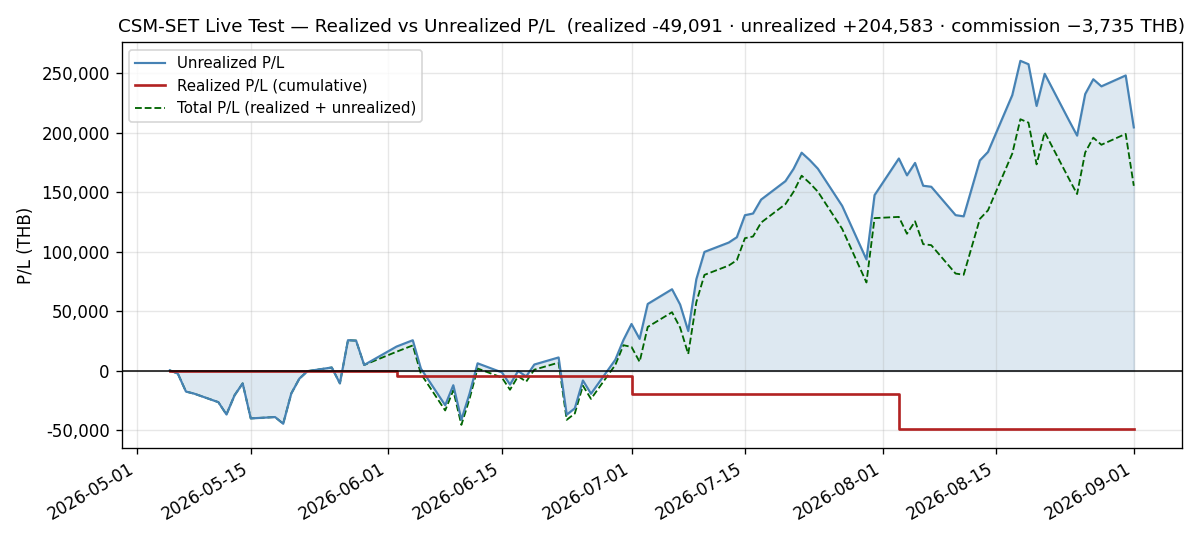
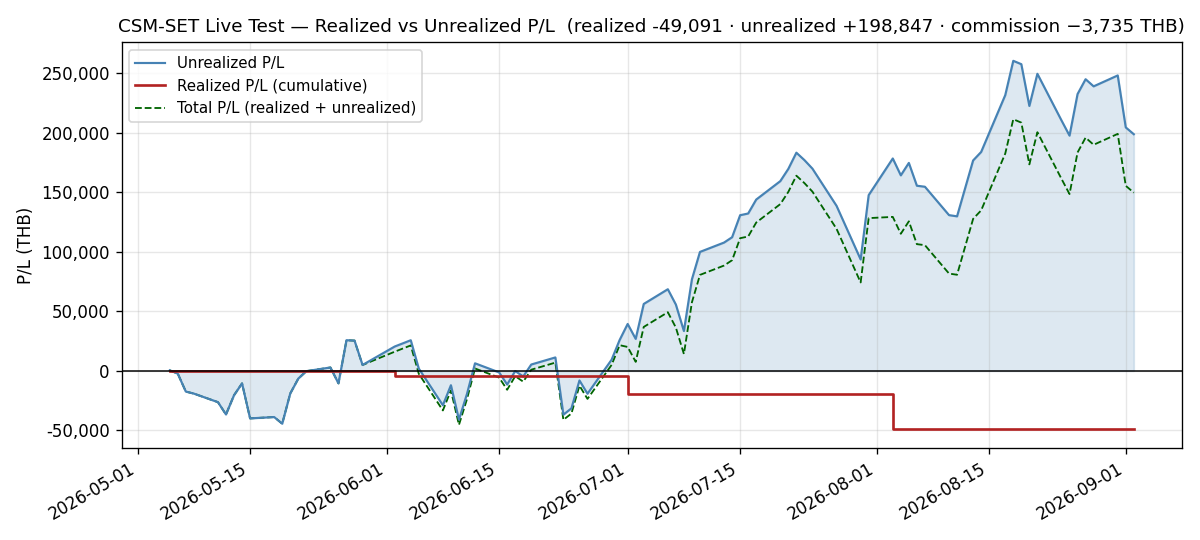
docs(live-test): add daily log for 2026-09-02
NAV closes at 1,268,145.70 THB, down -5,736.00 (-0.4503%) on breadth of
2 up / 7 down / 1 flat, cumulative +13.23%. IRPC (+3.70%) set a fresh
live-test high at 2.80 for a second session and carried the tape against
seven mild decliners, none beyond 2.5%. The book outperformed the SET by
+0.4054pp, reversing Tuesday's -2.9143pp.

The 2026-09-01 dual-bar defect did not recur: the panel is back to 947
rows, one per trading day, and skill step 10 passes on its own for the
first time since 08-31. The guards shipped yesterday logged nothing,
which is the correct outcome but means they were never exercised -
deployed, not re-proven.

The day's data event is a restatement, and the EMA100 positive control
found it unprompted. FORTH's 2026-09-01 close was rewritten 15.50 ->
15.40, moving that day's equity_curve row by exactly -530.00. The control
reproduced four of five prior readings and missed only FORTH - it
localised the change to a symbol and a date without being asked.
daily_performance is append-only and still reads 1,273,881.70 for
2026-09-01, so the 09-01 log remains correct on its own basis; the two
tables disagreeing there is the documented design, not damage.

daily_return is wrong for two reasons today and one now has an address:
the denominator bug is in quant-api-gateway (PR #38, open and NOT
deployed), and the numerator used the restated prior bar.

Claude-Session: https://claude.ai/code/session_01VKyqnmKmz6Hh9ErHRFMhFr

diff --git a/docs/live-test/daily/2026-09-02.md b/docs/live-test/daily/2026-09-02.md
@@ -1,0 +1,177 @@
+# Daily Log — 2026-09-02 (Wednesday)
+
+**As of:** 2026-09-02, Asia/Bangkok
+**Phase:** C — Extended Observation
+**Day:** 83 / 80 trading days remaining in 2026
+**Status:** **NAV closes at 1,268,145.70 THB, down −5,736.00 (−0.4503%)** with no trades. Breadth is **2 up, 7 down, 1 flat**. 🟢 **THE DUAL-BAR DEFECT DID NOT RECUR AND THE FIX IS DEPLOYED** — the panel is back to **947 rows, every one stamped 09:55, 211/211 non-null, zero days carrying more than one bar** — and **skill step 10 passes on its own for the first time since 2026-08-31**: `daily_performance` reads 1,268,145.70, equal to this log's Total NAV to the satang. ⚠ **But the guards logged NOTHING today, so they were never exercised — deployed is not re-proven** (Risk Note 1). 🔑 **The day's real data event is a RESTATEMENT, and the EMA100 control found it unprompted:** FORTH's **2026-09-01** close was rewritten **15.50 → 15.40**, moving the `equity_curve` row for that day by exactly **−530.00**; the control reproduced four of five prior readings and missed only FORTH (Risk Note 5). 🟢 **`daily_performance` still reads 1,273,881.70 for 2026-09-01 — the 09-01 log remains correct on its own basis** (Risk Note 13). 🟢 **The book outperformed the index by +0.4054pp**, reversing yesterday's −2.9143pp, which was the worst of the holding period. 🔴 **MGC's EMA100 cushion compressed again to +3.19%** and the rule that would evict it does not run until 2026-09-30. ⚠ **ENERG's headroom is a fresh holding-period tightest at 22,883.00 THB — because NAV fell, not because the sleeve grew.**
+
+---
+
+## Execution Summary
+
+**No trades today.** The September rebalance was a 0-out / 0-in rotation (`monthly/2026-08.md`), so `configs/live_portfolio.yaml` is unchanged and remains valid — the second session of the first holding period in the live test to survive a rebalance boundary untouched. Realized P/L for the session is **0.00 THB** and no commission was paid. The next rebalance evaluation is **2026-09-30**.
+
+⚠ **A held name's price history changed even though nothing was traded.** FORTH's **2026-09-01** bar was restated by the vendor from **15.50 to 15.40** (factor 0.9935483871). No position, share count or cash figure moved; what moved is the banked past. **A session with no trades is not a session with no changes**, and the distinction matters because the two look identical in the Execution Summary and nowhere else (Risk Note 13).
+
+---
+
+## Portfolio Snapshot
+
+`Avg Cost` is the commission-inclusive per-share basis carried from `configs/live_portfolio.yaml` (4-decimal precision); `Cost Basis = shares × Avg Cost`, and `U.PL % = MV / Cost Basis − 1`. Per-symbol values reproduce the broker statement exactly.
+
+| # | Symbol | Shares | Avg Cost | Last Price | Market Value (THB) | Cost Basis (THB) | U.PL % |
+|---|--------|-------:|---------:|-----------:|--------------------:|-----------------:|-------:|
+| 1 | IRPC | 56,600 | 2.3037 | 2.80 | 158,480.00 | 130,389.42 | +21.54% |
+| 2 | HANA | 3,000 | 35.8070 | 45.00 | 135,000.00 | 107,421.00 | +25.67% |
+| 3 | GUNKUL | 30,800 | 2.9246 | 4.86 | 149,688.00 | 90,077.68 | +66.18% |
+| 4 | INSET | 42,000 | 3.0848 | 4.48 | 188,160.00 | 129,561.60 | +45.23% |
+| 5 | KCE | 2,600 | 39.0655 | 58.50 | 152,100.00 | 101,570.30 | +49.75% |
+| 6 | EASTW | 24,000 | 4.2672 | 4.70 | 112,800.00 | 102,412.80 | +10.14% |
+| 7 | EPG | 17,300 | 5.9099 | 6.00 | 103,800.00 | 102,241.27 | +1.52% |
+| 8 | FORTH | 5,300 | 16.1270 | 15.30 | 81,090.00 | 85,473.10 | −5.13% |
+| 9 | SMT | 20,400 | 5.8097 | 5.75 | 117,300.00 | 118,517.88 | −1.03% |
+| 10 | MGC | 9,200 | 10.7180 | 7.25 | 66,700.00 | 98,605.60 | −32.36% |
+
+### Portfolio summary
+
+| Metric | Value |
+|--------|-------|
+| Total Cost Basis | 1,066,270.65 THB |
+| Total Market Value | 1,265,118.00 THB |
+| Unrealized P/L | +198,847.35 THB (+18.65%) |
+| Realized P/L (today) | **0.00 THB** |
+| Realized P/L (cumulative, since inception) | **−49,091.38 THB** |
+| Commission paid (cumulative) | **−3,735.16 THB** |
+
+### Account summary
+
+| Metric | Value |
+|--------|-------|
+| Remaining Cash | 3,027.70 THB |
+| Total NAV | 1,268,145.70 THB |
+| Total Return on NAV | +13.23% |
+
+> 🟢 **The verification gate that was waived yesterday RAN TODAY AND PASSED.** Skill step 10 requires `Total NAV` to equal `db_gateway.daily_performance.total_value`; both read **1,268,145.70**. ⚠ **This is worth one sentence of care rather than a victory lap:** the gate passing today does not retroactively validate anything about 2026-09-01, and it is only informative because yesterday established what its failure looks like. **A check that passes is evidence exactly in proportion to its ability to have failed** — and yesterday it demonstrably could.
+>
+> **Cost-basis note:** Total Cost Basis is unchanged at **1,066,270.65 THB** and the reconciliation delta against Σ per-symbol (`shares × avg_cost`, 4-dp) is **0.00 THB** for a twenty-first consecutive session.
+>
+> **Above/below cost: 7 up / 3 down**, composition unchanged from Tuesday — **FORTH, SMT and MGC**. **FORTH deepened to −5.13%** and is now below cost on both the reported and the total-return basis (the 795.00 of unrecorded dividend covers less than a fifth of the 4,383.10 shortfall), so the distinction this series drew for three sessions stays closed. **SMT deepened to −1.03%** and **MGC to −32.36%, its worst since entry for a third consecutive session.** Unrealized fell from **+19.19% to +18.65%**, a **−0.54pp** step. **Dispersion narrowed to 98.54pp** (GUNKUL +66.18% to MGC −32.36%) from 101.70pp — **and for the first time in three sessions it narrowed the right way round**: GUNKUL shed 4.10pp while MGC lost only 0.94pp, so the compression came from the leader falling toward a laggard that was comparatively stable, rather than both ends collapsing.
+>
+> **Total P/L check:** realized + unrealized = −49,091.38 + 198,847.35 = **+149,755.97 THB**, down from +155,491.97 by exactly the −5,736.00 session move. It sits **14,253.99 below** the pre-rotation best of +164,009.96 (2026-07-22) and **61,680.00 below** the live-test maximum of **+211,435.97 set 2026-08-18** — a gap that is exactly the NAV drawdown from peak, as it must be while realized P/L is constant.
+
+---
+
+## Day-over-Day Change (vs Tuesday September 1)
+
+Share counts are unchanged from 2026-09-01, so this table fully explains the NAV move: Σ (shares × price change) = **−5,736.00 THB**, which equals the change in Total Market Value to the satang.
+
+🔑 **The `Sep 1 Close` column is the AS-PUBLISHED basis, and ONE cell of it no longer matches the panel.** FORTH's 2026-09-01 close now reads **15.40** in `prices_latest.parquet`, not the **15.50** the 2026-09-01 log published. **The published value is kept here** — that is the standing convention and it is what keeps this table reconcilable against the prior log — but the consequence is stated rather than buried: **on the restated basis the session is −5,206.00 (−0.4088%), not −5,736.00 (−0.4503%).** Both are correct against their own history. **The DB's `daily_pnl` used the restated one**, which is why its `daily_return` cannot be reconciled against this table without knowing that (Risk Note 6).
+
+| Symbol | Sep 1 Close | Sep 2 Close | Change | Change % | MV Contribution (THB) |
+|--------|------------:|------------:|-------:|---------:|----------------------:|
+| IRPC | 2.70 | 2.80 | +0.10 | +3.70% | +5,660.00 |
+| HANA | 45.00 | 45.00 | 0.00 | 0.00% | 0.00 |
+| GUNKUL | 4.98 | 4.86 | -0.12 | -2.41% | -3,696.00 |
+| INSET | 4.54 | 4.48 | -0.06 | -1.32% | -2,520.00 |
+| KCE | 57.75 | 58.50 | +0.75 | +1.30% | +1,950.00 |
+| EASTW | 4.80 | 4.70 | -0.10 | -2.08% | -2,400.00 |
+| EPG | 6.10 | 6.00 | -0.10 | -1.64% | -1,730.00 |
+| FORTH | 15.50 | 15.30 | -0.20 | -1.29% | -1,060.00 |
+| SMT | 5.80 | 5.75 | -0.05 | -0.86% | -1,020.00 |
+| MGC | 7.35 | 7.25 | -0.10 | -1.36% | -920.00 |
+| **Total** | | | | **-0.45%** | **-5,736.00** |
+
+**Breadth: 2 up, 7 down, 1 flat.**
+
+> The **−0.45%** on the Total row is the **market-value** change (−5,736.00 / 1,270,854.00 = −0.4513%). The **NAV** change is **−0.4503%** (−5,736.00 / 1,273,881.70) — the two differ only because cash sits in the NAV denominator and not the market-value one. Both are stated because different sections of this log use each.
+
+**A shallow, broad decline with one genuine riser.** **IRPC (+3.70%, +5,660) was the session** — it contributed more than the other nine combined lost individually, set a fresh live-test high, and is the only name to have risen on both of the last two sessions. **KCE added +1,950** on a +1.30% move, recovering a third of Tuesday's fall. Against them, **seven names fell and none fell hard**: the largest single decliner was GUNKUL at −2.41%, and no name moved more than 2.5% in either direction except IRPC. **HANA closed exactly unchanged at 45.00**, the second flat print in two sessions.
+
+**This is the mildest session of the holding period in dispersion terms**, and that is the observation worth keeping: yesterday nine names fell with three of them beyond 4%, today seven fell with none beyond 2.5%. **The book is drifting rather than being repriced.** The rotation pattern is again neither sleeve-versus-sleeve nor common-factor — IRPC (ENERG) and KCE (ETRON) rose from different sleeves while their own sleeve-mates fell, which is the third consecutive session of idiosyncratic dispersion rather than rotation.
+
+---
+
+## Market Context
+
+| Indicator | Value | Source |
+|-----------|-------|--------|
+| SET Index | 1,575.07 | tvkit (TradingView) |
+| SET Open / High / Low | 1,587.58 / 1,589.88 / 1,572.44 | tvkit |
+| SET 200-day SMA | 1,452.3893 | tvkit (TradingView) |
+| Regime Estimate | BULL | SET +8.45% above SMA200 |
+
+---
+
+## Regime State
+
+- **Detected regime:** BULL — SET (1,575.07) is above SMA200 (1,452.3893) by +8.45%
+- **SMA200 position:** 1,452.3893 — SET closing at 1,575.07
+- **3-month return:** +0.26% (window-sensitive — see Notes)
+- **No regime-driven action.** The regime filter is evaluated at the month-end rebalance, not intra-month. The next evaluation is **2026-09-30**.
+
+**The five-session SET path reads 1,600.70 → 1,588.22 → 1,595.16 → 1,588.68 → 1,575.07**, and the index fell **−13.61 (−0.86%)**, its largest single-session decline since 2026-08-24. 🔴 **The 1,582 level broke.** It had been tested and held on two consecutive sessions (2026-08-28 low 1,582.38, 2026-08-31 low 1,582.12), and the 2026-08-31 log recorded that holding it twice was "the first thing the index has done in two weeks that would matter if it continued." **It did not continue.** Today opened at 1,587.58, never traded above 1,589.88, and fell through to a **1,572.44 low — the lowest print since 2026-08-11** — closing 2.63 above it. **The shape is a full-session decline with no rally attempt**, unlike Friday's gap-and-fade or Monday's hold-and-rally.
+
+🔴 **The cushion contracted −1.03pp, +9.48% → +8.45% — the largest single-session compression of the holding period.** The SMA200 rose a further +1.33 points to 1,452.3893, so the index and its mean moved apart from both ends. At +8.45% the index would need to shed roughly **123 points** to reach the SMA200, from 138 yesterday and 146 on Monday — **the distance has closed by 16% in two sessions.** ⚠ **This is still nowhere near a BULL→NEUTRAL reassessment**, and saying so plainly matters more as the number falls: the filter runs at month end, a −0.86% day is unremarkable, and six weeks of compression is a trend in a slow-moving average, not a regime signal. **What has changed is the rate, not the verdict.**
+
+🟢 **Against the index the book outperformed by +0.4054pp — a reversal of the worst relative session of the period.** Book market value **−0.4513%** against SET **−0.8567%**, and the post-rebalance daily margin sequence now reads **+1.43 / −0.84 / +1.30 / −1.85 / +0.09 / −2.72 / +0.64 / +3.82 / +0.90 / +2.74 / +2.52 / +0.52 / −2.67 / +1.86 / −2.19 / −0.69 / +2.39 / +1.04 / +0.32 / +0.26 / −2.91 / +0.41**. **Cumulatively the book is +2.21% since the 2026-08-03 rebalance-day close against the index's −2.89%, a +5.10pp margin** — recovered from +4.72pp yesterday, though still well below the +7.25pp high set on 2026-08-31. **A concentrated book falling less than a broad index on a down day is the same higher-variance property that made it fall three times as fast yesterday**; two sessions in opposite directions is not evidence about the edge.
+
+---
+
+## Sector Concentration
+
+Groupings are the SET-official classification re-based at the 2026-08-03 rebalance and are unchanged today; percentages are directly comparable to the prior session for every sleeve.
+
+| Sector | Market Value (THB) | % of NAV | Limit | Status |
+|--------|--------------------:|---------:|-------|--------|
+| Energy & Utilities (ENERG) | 420,968 | 33.1956% | 35% | **OK — watch. Tightest headroom of the holding period** |
+| Electronic Components (ETRON) | 404,400 | 31.8891% | 35% | OK — watch |
+| ICT | 269,250 | 21.2318% | 35% | OK |
+| Construction Materials (CONMAT) | 103,800 | 8.1852% | 35% | OK |
+| Automotive (AUTO) | 66,700 | 5.2596% | 35% | OK — **holding-period low (9th consecutive)** |
+
+🔴 **ENERG's headroom fell to 22,883.00 THB, a second consecutive holding-period tightest — and for the second consecutive session it tightened BECAUSE THE BOOK FELL.** ENERG's own value dropped 436 THB, essentially flat; the 35% ceiling dropped 2,007.90 because it is a percentage of a NAV that fell 5,736.00. ⚠ **Yesterday this was recorded as a one-off worth stating; today it happens again, so it is a pattern and should be named as one: a falling book tightens every percentage cap it has, and does so fastest in the sleeve that is holding up best.** **The cap is still not the live issue** — 22,883.00 is 5.4% of ENERG's value — **but the mechanism is now established, and it is the opposite of the intuition that a cap loosens when a book shrinks.**
+
+**Both leading sleeves gained weight while both lost value.** **ENERG rose +0.12pp to 33.1956%** on **−436** (IRPC +5,660 against GUNKUL −3,696 and EASTW −2,400) and **ETRON rose +0.22pp to 31.8891%** on **−1,020** (KCE +1,950 against HANA flat and SMT −1,020). **The sleeve gap narrowed to 1.3065pp** from 1.4078, and **ENERG has now led on all twenty-one sessions since the rotation.** The gap sequence reads **1.1949 → 0.5029 → 1.0879 → 0.2625 → 1.4078 → 1.3065pp** — after four reversals it moved in the same direction twice, which is the least eventful thing it has done all period.
+
+🔴 **AUTO fell to 5.2596%, a ninth consecutive holding-period low, and is now 0.2596pp above the 5% floor.** Today's step was **−0.0486pp**, the smallest of the run, because MGC (−1.36%) fell only a little harder than the book (−0.45%). **The 2026-09-01 revision to "eight to ten sessions" stands and today did not accelerate it** — the 2026-08-31 estimate of "two to three sessions" remains superseded, and it is worth restating that the correction came from the book falling rather than MGC recovering. **ICT fell −0.19pp to 21.2318%** on −4,600 and **CONMAT fell −0.10pp to 8.1852%** on −1,730.
+
+---
+
+## Risk Notes
+
+1. 🟢 **RESOLVED (holding, unexercised) — the dual-bar defect did not recur, and the fix is deployed but was not tested today.** The panel is **947 rows, every one stamped 09:55 BKK, 211 of 211 symbols non-null on every recent session, and ZERO days carrying more than one bar.** The two guards shipped yesterday (`collapse_to_daily_bars`, `drop_unpriced_days`) logged **no warnings at all**. ⚠ **That silence is the correct outcome and it is NOT evidence the fix works.** The vendor stopped emitting the second bar, so the collapse had nothing to collapse; a guard that never fires has demonstrated nothing on the day it never fires. **What IS established today is separate and weaker: the fix is present in the running container** (verified at deploy time), **and it did not break the ordinary path** — 947 clean rows priced correctly end to end. **The first real out-of-sample test of the guard will be the next session the vendor splits a day**, and there is no way to schedule that. Full report: `events/2026-09-01-dual-bar-nav-corruption.md`.
+2. 🟢 **INSET is inside the 15% position bound for a SECOND consecutive session, and it got there the same wrong way again.** INSET closed at **14.8374% of NAV**, **2,061.86 THB under** the 190,221.86 ceiling, from 402.26 under on Tuesday. ⚠ **The margin widened because INSET fell −1.32% on a day the book fell −0.45%** — the position underperformed and the bound improved. **This is now the fourth consecutive session in which the bound moved in the favourable direction only because the thesis weakened**, and the second in which it is fully inside. The holding-period path reads 15.46 → 15.40 → 15.70 → 15.44 → 15.68 → 15.76 → 15.30 → 14.95 → 15.24 → 15.79 → 15.83 → 15.80 → 16.24 → 15.82 → 15.71 → 15.61 → 15.91 → 15.54 → 15.24 → 14.97 → **14.84%** — **outside on nineteen of twenty-two sessions.** **A constraint that comes back into range by the position losing value has not been satisfied; it has been outlasted.** The July plan's request remains **open** and this is the fourteenth consecutive log to record it.
+3. 🔴 **Both 2026-08-03 entrants are below cost for the first time since entry, and the combined figure set a fresh worst.** Combined entrant unrealized fell to **−33,123.53 THB** (SMT **−1,217.88**, MGC −31,905.60) from −31,183.53, a **−1,940.00** deterioration and the **third consecutive fresh worst**. The path reads −30,043.48 → −30,863.48 → −21,323.48 → −19,183.48 → −22,043.48 → −22,303.48 → −31,183.53 → **−33,123.53** against a day-one figure of −13,223.48. ⚠ **SMT has now given up its entire post-entry gain**: it peaked at +5.00% on 2026-08-31 and closed at **−1.03%** today, a 6.03pp round trip in two sessions. **The divergence narrowed to 31.33pp** (from 31.25pp — effectively flat) **only because both names fell together.** **The pair bought the same morning by the same rule at the same notional intent are now both losing positions**, which is a cleaner statement of the fix-notional-not-shares problem than the divergence figure ever was. Carried to the 2026-09-30 evaluation.
+4. 🔴 **MGC's EMA100 cushion compressed to +3.19% and it remains structurally uncatchable until month end.** **Validated EMA100 readings for today** (method positive-controlled first — see Risk Note 5): **MGC is closest at +3.19%** above its EMA100 of 7.0260, then **EASTW (+7.48%)**, **FORTH (+9.32%)** and **EPG (+13.87%)**; the **widest is SMT at +49.42%**. **All ten held names remain above their EMA100**, so `ema100_fast_exit` does not fire. ⚠ **MGC's reading has now fallen +17.79% → +15.98% → +12.83% → +9.06% → +4.68% → +3.19% across six sessions.** Today's step (−1.49pp) is the smallest of the run, so the compression decelerated — **but the structural point is unchanged and is the one that matters: the rule is evaluated ONLY at the month-end rebalance, the September evaluation already retained MGC, and the next is 2026-09-30.** **MGC can cross below its EMA100 tomorrow and be carried for four more weeks.** **Nine of ten readings compressed; only KCE and IRPC expanded.** There is **no intra-month stop-loss** in `configs/live-settings.yaml`.
+5. 🔑 **THE EMA100 POSITIVE CONTROL DETECTED A RESTATEMENT IT WAS NOT LOOKING FOR — 4 of 5 reproduced, FORTH did not.** The standing practice is to reproduce the prior log's published EMA100 readings from the current panel before quoting today's. Today it returned **EASTW +9.94%, EPG +16.09%, SMT +52.24% and MGC +4.68% exactly** — and **FORTH at +10.24% against the +10.94% the 2026-09-01 log published.** ⚠ **A single mismatch in a five-name control is either a method failure or a data change, and the two are distinguishable**: a method failure moves all five. **It moved one, and that one is the name whose 2026-09-01 bar was restated 15.50 → 15.40.** ⇒ **The control did not merely pass or fail; it localised the change to a symbol and a date without being asked.** This is the strongest result this check has produced, and it is worth recording because the check was originally added to guard against the *method* drifting — **it has now proven more useful for what it catches incidentally.** Price verification against the prior log otherwise returned **9 of 10 matching to the satang**, FORTH being the tenth.
+6. ⚠ **DATA — `daily_return` is wrong for TWO independent reasons today, and one of them now has an address.** The DB reads **−0.004105206523193668**, which reproduces exactly as **`−5,206.00 ÷ 1,268,145.70`**. **Both terms carry a defect.** **(a) The denominator** is today's NAV where a return requires the prior one — 🔑 **and this is no longer an unlocated bug: it is in `quant-api-gateway`, not in csm-set.** The strategy engine computes the correct value and its payload never carries `daily_return` at all, only `daily_pnl`, so the gateway forms the figure on ingest. **`quant-api-gateway` PR #38 fixes it and is OPEN AND NOT DEPLOYED**, so this column stays wrong until it merges ([[TK-0489]]). **(b) The numerator** is **−5,206.00**, computed against FORTH's **restated** 2026-09-01 bar, where the as-published session change is **−5,736.00**. **The correct day-over-day NAV change on the published basis is −0.4503%; on the restated basis it is −0.4088%; the stored figure is neither.** Do not quote it.
+7. 🟢 **DATA — `cumulative_return`'s anchor HELD THROUGH A RESTATEMENT, which is a first.** It reads **+0.02203318136094201**, reproducing as `1,268,145.70 ÷ 1,240,806.7792389998 − 1` against a true Total Return on NAV of **+13.23%**. **The 2026-08-03 anchor row still reads 1,240,806.7792389998, unchanged.** ⚠ **Every prior test of the claim "the anchor moves if and only if a held name is restated" was run on sessions where the restated bar was inside the anchor's own history.** Today FORTH was restated on **2026-09-01**, which is *after* the anchor date, and **the anchor correctly did not move** — the first observation separating "a restatement occurred" from "a restatement touched the anchor row." The `entry_date` re-anchoring defect is unchanged and is why this field reads +2.20% against a true +13.23%. Quote this log's **+13.23%**, computed against the rebased `starting_nav` of 1,120,000. Do not chart the DB column.
+8. 🟢 **DATA — `combined_drawdown` is bit-identical for a FOURTH consecutive session.** It reads **−0.04448286083054431**, the same stored double as 2026-08-28, 08-31 and 09-01. **This is correct and the reasoning is worth stating because it is not obvious:** the field is a running minimum, today's true drawdown is **−4.64%**, and the window's existing trough is deeper — so a book that fell must still leave the field untouched. **The mechanism has now accounted for a move, three non-moves, a move in the counter-intuitive direction, and one poisoned reading that was repaired.** The two real defects are unchanged: **(a)** `entry_date` truncation, so it cannot express anything before 2026-08-03 and the full `equity_curve` maximum drawdown remains **−7.1073% at 2026-07-30**; **(b)** restated inputs.
+9. 🟢 **RESOLVED (holding) — the holiday calendar resolved cleanly for a sixth consecutive session.** The 18:00 refresh logged `SET holiday calendar for 2026-09-02 resolved from the banked cache (20 closures, captured 2026-09-01T15:40:44Z)` and `committed 2026 fallback table matches the live calendar (20 closures)` — **an eighth independent validation of the committed fallback.** The opportunistic poller (`452ba69`) has now run for six consecutive sessions without the refresh contacting the endpoint on its critical path. The remaining follow-up is unchanged: **capture the 2027 table from 2027-01-01.**
+10. ⚠ **The refresh was clean but took 144.965 s — OUTSIDE the established 119.60–139.20 s band.** APScheduler ran the 18:00 BKK job (next run **2026-09-03 18:00 +07**); held symbols cleared first pass (`requested=10 recovered=10 still_failing=0`) as did the universe (`attempt 1/3: requested=201 recovered=201 still_failing=0`), giving **`failures=0`, `symbol_count=211`, `retry_attempts_used=0`, `index_fetched=true`** — a **twenty-second consecutive fully clean run** by every metric the refresh reports. **The duration is 4.1% above the band's upper bound.** **Recorded as a single observation and the band is NOT re-fitted**, which is the same discipline that let 2026-08-28's 242.198 s outlier be resolved in one session rather than absorbed. Two of the last four sessions have now exceeded the band; **if a third does, the band needs re-deriving rather than defending.** ⚠ **Container uptime reset — and it was deliberate.** `csm-set-csm-1` has been up since **2026-09-01 14:09:59 UTC** with `RestartCount=0`, replacing a run that began 2026-08-25. **The recreate was the dual-bar fix's deployment**, not an incident; prior logs track uptime as a stability signal, so it is attributed here rather than left to read as an unexplained bounce. Still **private mode** (`CSM_PUBLIC_MODE=false`).
+11. **CLOSED (same session) — `pnl.csv` was brought current in the same unit of work as this log.** The series ended at **2026-09-01** (81 rows); the row `2026-09-02,-49091.38,198847.35,149755.97,3735.16` was appended, continuing the same-session practice for a **fourteenth consecutive session**. The CSV now runs **82 rows, 2026-05-05 → 2026-09-02, matching `equity_curve`'s 82**, with the `realized_cum + unrealized = total_pl` identity holding on every row, no duplicate dates, no 2026-08-12 row, `commission_cum` stepping only on the six known fill dates, and the residual at **1,610.27**. **`pnl_realized_unrealized.png` was regenerated**, so both artifacts end together at **82 points**; the four PNGs were checksummed before and after and the three NAV charts are byte-identical. ⚠ **The CSV is built from THIS log's figures, not from `equity_curve`** — which is why its 2026-09-01 row still carries the as-published **+204,583.35** while `equity_curve` now carries the restated basis. **That divergence is by design and is the second one this series has recorded; it is not drift.**
+12. **Circuit-breaker buffer 16.10% of NAV, −0.38pp on the session.** The 5% breaker trips at **1,064,000 THB** (1,120,000 × 0.95). NAV sits **+204,145.70 THB above it**, down from +209,881.70. **Today's NAV is 4.64% off peak**: raw, 1,268,145.70 against the 2026-08-18 peak of **1,329,825.70** is **−61,680.00, or −4.6382%**; ex-injection, 1,248,145.70 against 1,309,825.70 is **−4.7091%**. **Both lines agree.** **This is the deepest drawdown since 2026-08-25 and a second consecutive step down** (−0.92% → −4.21% → −4.64%). **Raw NAV is now 5,745.35 above the pre-rotation 2026-07-22 peak of 1,262,400.35**, down from 11,481.35 — **that cushion has eroded 90% in two sessions and one more ordinary down day removes it.** The separate `circuit_breaker.trigger_threshold` is **−10% on a rolling 60-day window**; −4.64% is clear of it but this is the closest approach since 2026-08-25.
+13. 🔑 **DATA — a NEW restatement instance, and the first affecting a bar that a published log had already reported.** **FORTH's 2026-09-01 close was rewritten 15.50 → 15.40**, factor **0.9935483871**, moving that day's `equity_curve` row by exactly **5,300 × −0.10 = −530.00** (1,273,881.70 → 1,273,351.70). ⚠ **This is FORTH's SECOND adjustment and it is a different one** — the first was its 2026-08-28 ex-dividend (factor 0.9907975776) recorded in prior logs. **The cause is not asserted here**, because it was not verified: a second dividend, a late correction and a vendor re-derivation are indistinguishable from the panel alone. 🟢 **`db_gateway.daily_performance` is structurally append-only** (`src/csm/adapters/hooks.py:286-294`) **so its 2026-09-01 row still reads 1,273,881.70 — the value the 2026-09-01 log published, which therefore remains correct on its own basis.** **`equity_curve` legitimately disagrees because it reprices `[entry_date, today]` against current history.** **The two tables disagreeing on a past date is the documented design, not damage** — and it is stated at length because a reader who saw those exact rows repaired yesterday will otherwise read a 530.00 divergence as the corruption returning. **The 2026-09-01 log is deliberately NOT edited**; restatements are recorded forward, as they have been for twenty-two sessions. The mixed-basis trap remains live for **GUNKUL, INSET, EPG, MGC and FORTH**.
+14. **INFRA (carried, observation only — no action taken) — the container publishes `:8100` on all interfaces while private-mode auth is disabled.** Re-verified after yesterday's recreate: **`CSM_API_KEY` is absent from the container environment entirely** (the startup log carries the explicit `private-mode auth is DISABLED` warning) and `CSM_PUBLIC_MODE=false`; the port is published on `0.0.0.0:8100` and `[::]:8100`. **Risk tier: low-moderate and LAN-scoped.** **Two low-risk options, operator's call:** bind to `127.0.0.1:8100:8000`, or set `CSM_API_KEY`. ⚠ **Yesterday's recreate was a window in which this could have been closed at zero marginal cost and was not**, because it was outside that change's scope — recorded so the next recreate is not missed the same way. **This is the fifteenth consecutive log to carry it.**
+15. **The uncredited dividend total HELD at 6,663.00 THB.** KCE **1,560.00**, INSET **2,100.00**, MGC **2,208.00**, FORTH **795.00**. **No held name went ex-dividend today**, so the running figure is unchanged — ⚠ **and today shows why that sentence is weaker than it sounds: FORTH's price history changed without any ex-dividend event this log could identify.** It stands at **4.45%** of the +149,755.97 total P/L, up from 4.29% only because the denominator shrank. **There is still no dividend-accrual or dividend-receivable path anywhere in the live-test book**; `cash` is a static YAML field mutated only at rebalance, and GUNKUL and EPG also went ex-dividend earlier with their amounts unrecovered, so the true understatement exceeds 6,663.00. **Recorded as an observation and deliberately not corrected** — adding the amounts by hand would break the reconciliation against `daily_performance`, which is the check that caught the 2026-09-01 corruption. The decision carries to **2026-09-30**.
+16. **The open decisions carried across the September rotation are unchanged, and the count is now four.** The sector-cap and position-bound drift question (Risk Notes 2 and the Sector section), fix-notional-not-shares on the entrants (Risk Note 3), restate-vs-cutover for price history (Risk Notes 5, 7 and 13), and dividend accrual (Risk Note 15). **All four crossed the 2026-09-01 rotation boundary undecided** and the next forcing point is **2026-09-30**, twenty trading sessions away. ⚠ **The fifth — whether MGC is carried — was resolved by rule at the rotation** (retained; it ranks #3 of 204) and is not re-listed. 🟢 **Two obligations that WERE settled this week are recorded so the list does not read as static:** the dual-bar defect ([[TK-0484]], closed) and the localisation of the `daily_return` denominator bug to `quant-api-gateway` ([[TK-0489]], open with PR #38 pending deploy).
+
+---
+
+## Notes
+
+- **Scheduled refresh completed via APScheduler with zero failures — a twenty-second consecutive clean run, and the second in four sessions to run long.** `apscheduler.executors.default` ran the 18:00:00 +07 job; `held-symbols attempt 1/4: requested=10 recovered=10 still_failing=0`; `universe attempt 1/3: requested=201 recovered=201 still_failing=0`; `Completed daily refresh` (`duration_seconds=144.96473658224568, symbol_count=211, failures=0, held_symbols_fetched=10, held_symbols_failed=0, retry_attempts_used=0, index_fetched=true`); job `executed successfully` with `next run at: 2026-09-03 18:00:00 +07`. `results/.tmp/last_refresh.json` corroborates (`timestamp=2026-09-02T11:02:26Z`). **Scheduled refreshes write no job receipt** — the newest file under `results/.tmp/jobs/` is still `01KZJY1ZQ5KNBQJYZXGPH4XWAJ.json` from the 2026-08-09 manual run. **The run was the scheduled cron firing, not a manual trigger** (Risk Note 10).
+- 🟢 **The price panel was a VALID source for the prior close on nine of ten names, and the tenth is the finding.** The documented approach reads the last two rows of `prices_latest.parquet`; today those are unambiguous — **947 rows, one per trading day, no duplicates** — so the shape problem that made this unreadable on 2026-09-01 is absent. **What the panel does NOT agree with is the prior log, on FORTH**, and the prior-log comparison is the only thing that surfaces it. ⚠ **The standing rule is unchanged and today strengthens it: run the comparison every session regardless, because a restatement and a clean session are indistinguishable until you have.**
+- **Today's closes were separately re-verified against the live vendor.** All ten held-name 2026-09-02 closes were re-fetched via tvkit and matched the panel exactly. **The prior-log comparison tests the panel's HISTORY; the tvkit re-fetch tests its TODAY.** Both are run because neither subsumes the other — and on a session where history moved and today did not, running only one would have produced the wrong conclusion in either direction.
+- **The EMA100 figures were positive-controlled before use, and the control did real work** (Risk Note 5). Full-series `ewm(span=100, adjust=False)` off the current panel reproduced the 2026-09-01 log's published readings for **EASTW, EPG, SMT and MGC exactly**, and returned **FORTH +10.24% against a published +10.94%** — isolating the restatement to one symbol and one date. ⚠ **A control that reproduces four of five is not a 80% pass; it is a localisation.** The distinction is worth keeping because a method drift would have moved all five.
+- **Row-integrity checks pass and value-integrity is understood.** `db_gateway.daily_performance` holds **83 rows across 83 distinct dates**, 2026-05-04 → 2026-09-02, and 83 rows is exactly Day 83 — an independent confirmation of the day counter. `db_csm_set.equity_curve` holds **82 rows across 82 distinct dates**, up exactly one, **every row stamped 00:00 UTC and zero non-midnight rows**; the `b76d709` normalization is holding for a twenty-second session. ⚠ **One historical `equity_curve` value moved (2026-09-01, by −530.00) and that is explained, expected and attributed** (Risk Note 13) — unlike 2026-09-01, when a historical value moved for a reason that was a defect.
+- **`configs/live_portfolio.yaml` is unchanged** since the 2026-08-03 rewrite — 10 positions, `cash` 3,027.70, `starting_nav` 1,120,000, `entry_date` 2026-08-03. Σ `shares × avg_cost` = **1,066,270.65 THB**, matching this log's Total Cost Basis exactly (0.00 delta). It survives a rebalance boundary for the first time in the live test and is immutable until **2026-09-30**.
+- **The P/L identity holds and its residual is unchanged.** `realized_cum + Unrealized P/L − (Total NAV − starting_nav)` = −49,091.38 + 198,847.35 − 148,145.70 = **1,610.27 THB**, identical to the prior session's. The value to carry forward remains **1,610.27**; it did not step at the September rotation because no position entered at a fresh 4-dp `avg_cost`, and will not move again until a rebalance trades.
+- **Every figure in this log was verified rather than asserted, and the gate that could not run yesterday ran today.** Σ position market value equals Total Market Value exactly (1,265,118.00); **Total NAV (1,268,145.70) equals `db_gateway.daily_performance.total_value` for 2026-09-02 to the satang**; Σ (shares × price change) equals the market-value change (−5,736.00) exactly; the sector table sums to Total Market Value exactly; Σ per-symbol cost basis matches Total Cost Basis with a 0.00 reconciliation delta; the position count is 10, matching the YAML. All money arithmetic was computed with `Decimal` at 2-dp precision and every percentage re-checked with explicit half-up rounding rather than a tolerance (INSET 14.8374% against a 190,221.86 THB ceiling on a 188,160.00 THB position, 2,061.86 THB under; ENERG 33.1956% with 22,883.00 THB of headroom; the ENERG−ETRON gap 1.3065pp).
+- **Realized P/L and commission ledger — both unchanged, no trades today, and none expected until 2026-10-01.** Realized: −4,351.87 (2026-06-02) · −14,964.06 (2026-07-01) · −29,775.45 (2026-08-03) = **−49,091.38** cumulative. Commission: 1,611.15 (05-05) · 984.44 (06-02) · 169.09 (06-04/05) · 287.83 (07-01) · 682.65 (08-03) = **−3,735.16** cumulative.
+- **Capital events to date, unchanged.** 2026-06-04: +100,000 THB (`starting_nav` 1,000,000 → 1,100,000). 2026-08-03: +20,000 THB (1,100,000 → 1,120,000). Cumulative injected capital **120,000 THB** against an original 1,000,000 base. The September rotation required none.
+- **Fresh-high/low claims are scoped to their window.** "Fresh live-test high/low" is measured from 2026-05-04 (Day 1) and was verified against the parquet series restricted to that window — **not against the full panel, which reaches back to 2019-11-01 and would silently answer a different question.** Today: **a fresh live-test high for IRPC (2.80), its second consecutive**, and it is also the highest print in the entire 2019+ series. **No fresh live-test low.** 🟢 **IRPC has never been restated, so its window is clean on both bases.** Positions below their live-test high on an unrestated basis: HANA (45.00 vs 49.00, −8.16%), KCE (58.50 vs 60.50, −3.31%), EASTW (4.70 vs 5.80, −18.97%), SMT (5.75 vs 6.10, −5.74%). ⚠ **GUNKUL, INSET, EPG, MGC and FORTH are stated separately because their windows are restated** (Risk Note 13).
+- **3-month return figure is window-sensitive.** Today's +0.26% references the −66 bar; the lookback anchor is not a stable calendar point, so read it as approximate — the regime cushion (+8.45%) is the reliable trend gauge. The −2.01pp step from the +2.27% of 2026-09-01 is a mix of anchor-roll and today's −0.86% index move, and is flagged as mixed rather than attributed. ⚠ **At +0.26% this figure is within rounding of zero and should not be read as a signal in either direction.**
+- **Follow-ups for the next session (Thursday 2026-09-03 18:00 +07).** (a) **Check whether the vendor's second daily bar returns** — the guard is deployed but unexercised, and the next split day is its first real test (Risk Note 1); (b) **watch for further FORTH restatement** and whether the 2026-09-01 bar settles at 15.40 (Risk Note 13); (c) 🔴 **`quant-api-gateway` PR #38 is open and NOT deployed** — `daily_return` stays wrong until it merges, and the 112-row backfill decision is unmade ([[TK-0489]]); (d) **watch MGC's EMA100** at +3.19%, with no intra-month rule to act (Risk Note 4); (e) **watch AUTO's 5% floor** at 0.2596pp; (f) **a third refresh above the band means re-deriving it** (Risk Note 10); (g) decide the `:8100` binding question (Risk Note 14); (h) capture the 2027 holiday table from 2027-01-01.
+- **Calendar.** **September has no market closures.** The next session is **Thursday 2026-09-03**. The next 2026 closure is **2026-10-13**, and the next rebalance evaluation is **2026-09-30**, twenty trading sessions away.
+- Data fetched via tvkit (TradingView, free tier) — all 10 held-symbol prices from the 18:00 BKK scheduled-cron refresh and independently re-verified against tvkit; SET Index context anchored explicitly to the 2026-09-02 bar.

diff --git a/docs/live-test/graphs/README.md b/docs/live-test/graphs/README.md
@@ -260,6 +260,35 @@ do not re-derive `k` from the new NAV.
 
 ## History
 
+**`pnl.csv` extended through 2026-09-02** on 2026-09-02, appending the **2026-09-02** row — one row,
+continuing the same-session practice for a **fourteenth** consecutive session. `realized_cum` and
+`commission_cum` are unchanged (the September rebalance was a 0-out / 0-in, no-trade rotation), so
+the whole movement is the unrealized leg (+204,583.35 → **+198,847.35**, a **−5,736.00** session),
+and the reconciliation residual holds at **1,610.27**. **`pnl_realized_unrealized.png` was
+regenerated in the same session**, so the two artifacts end together at **82 points**; the three NAV
+charts were checksummed before and after and are byte-identical (`drawdown` eea580c3…,
+`equity_curve` 25b0baf9…, `monthly_returns` aebd96bd…), with only the P/L PNG's hash moving
+(67f656bb… → c11bb6b2…).
+
+🔑 **`pnl.csv` and `equity_curve` now diverge on 2026-09-01, and the divergence is CORRECT.** The
+vendor restated **FORTH's 2026-09-01 close, 15.50 → 15.40** (factor 0.9935483871). `equity_curve`
+reprices `[entry_date, today]` against current history, so its 2026-09-01 row moved by exactly
+`5,300 × −0.10 = −530.00` (1,273,881.70 → **1,273,351.70**). `pnl.csv` is built from the **daily
+logs'** figures, so its 2026-09-01 row keeps the **as-published** unrealized of **+204,583.35**, and
+`db_gateway.daily_performance` — being append-only — likewise still reads **1,273,881.70** for that
+date. ⚠ **Three series, two bases, and all three are right on their own terms.** This is the second
+divergence of this kind the file records and it is **by design, not drift**: the rule is that
+`pnl.csv` tracks what was published and `equity_curve` tracks what the panel currently says.
+
+**`nav_actual.csv` and `nav_twr.csv` were not extended**, which is the ordinary mid-month state —
+they are rebuilt from `equity_curve` **at month-end**, so the four PNGs sit on two dates as usual.
+⚠ **The next month-end rebuild will pick up the restated 2026-09-01 bar**, which is the intended
+behaviour and is noted here so it is not re-diagnosed as a discrepancy then.
+
+🟢 **The 2026-09-01 dual-bar corruption did not recur.** The panel is back to one row per trading
+day (947 rows, all stamped 09:55), and the guards shipped that day logged nothing. See
+`../events/2026-09-01-dual-bar-nav-corruption.md`.
+
 **`pnl.csv` extended through 2026-09-01** on 2026-09-01, appending the **2026-09-01** row — one row,
 continuing the same-session practice for a **thirteenth** consecutive session. `realized_cum` and
 `commission_cum` are unchanged, and for a new reason: **the September rebalance was a 0-out / 0-in,
